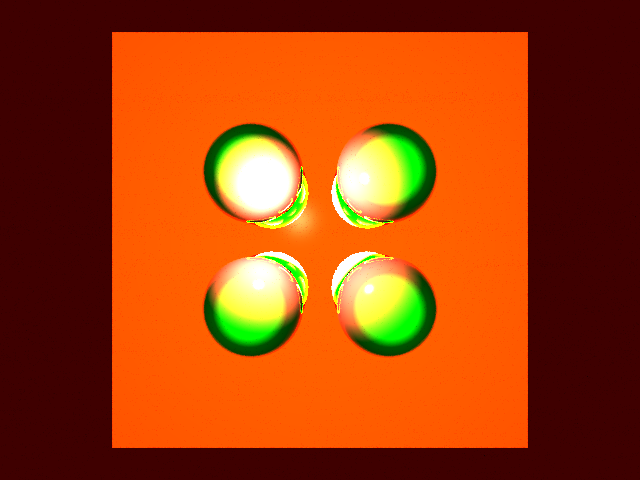
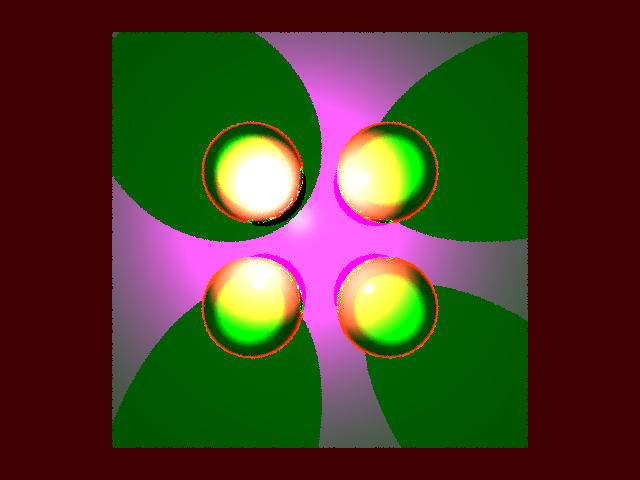
Flip triangle

diff --git a/src/Raytracer.cpp b/src/Raytracer.cpp
@@ -8,7 +8,7 @@
 #include <iostream>
 #include <algorithm>
 
-#define SAMPLE_COUNT 9
+#define SAMPLE_COUNT 1
 
 // Fall-off constants 
 #define KC 2
@@ -17,7 +17,7 @@
 
 #define MAX_T 5000
 #define RAY_EPS 0.0001		// Prevents acne
-#define PLANE_EQUALS_EPS 0.00001		// For parallel rays
+#define PLANE_EQUALS_EPS 0.0000001		// For parallel rays
 
 // Return d for convenient checks
 Vec3f RayPlaneIntersection(Vec3f start, Vec3f dir, Plane plane, float &d) {
@@ -136,6 +136,7 @@ Color Shade(Vec3f v, Vec3f n, Vec3f p, Material material, Scene *scene, bool noR
 		lightDir.Normalize();
 		Vec3f toLight = lightDir;
 		toLight.Negate();
+
 		if(!HitCheckScene(p, toLight, MAX_T, scene)) {		// Cast another ray for shadowing
 			float diffuse = std::clamp(n.Dot(toLight), 0.f, 1.f);
 		
@@ -151,6 +152,7 @@ Color Shade(Vec3f v, Vec3f n, Vec3f p, Material material, Scene *scene, bool noR
 		float dist = lightDir.Normalize();
 		Vec3f toLight = lightDir;
 		toLight.Negate();
+		
 		if(!HitCheckScene(p, toLight, dist, scene)) {		// Cast another ray for shadowing
 			float diffuse = std::clamp(n.Dot(toLight), 0.f, 1.f);
 			
@@ -188,10 +190,11 @@ Color Shade(Vec3f v, Vec3f n, Vec3f p, Material material, Scene *scene, bool noR
 				Vec3f refractedParallel = sqrtf(fabs(1.0 - refractedPerp.Dot(refractedPerp))) * n;
 				refractedParallel.Negate();
 				rayRefracted = refractedPerp + refractedParallel;
-			}
-			Color refraction = (1 - fresnelFactor) * RayTraceScene(p, rayRefracted, scene, hitFlag^1 && !noRefract, depth + 1);
+				Color refraction = (1 - fresnelFactor) * RayTraceScene(p, rayRefracted, scene, hitFlag^1 && !noRefract, depth + 1);
 
-			shade = shade + (material.transmissive * refraction);
+				shade = shade + (material.transmissive * refraction);
+			}
+
 		}
 
 	}
@@ -210,26 +213,21 @@ Color RayTraceScene(Vec3f start, Vec3f dir, Scene *scene, bool hitFlag, int dept
 	Material material;	// Material, also for shading
 	float tHit;
 
-	if(scene->accelerate) {
+	if(scene->accelerate && (triangleList.size() != 0)) {
 		Triangle hitTriangle;
 		if(scene->bvh->RayBvh(start, dir, 0, tMax, tHit, hitTriangle)) {
-			if(HitCheckTriangle(start, dir, hitTriangle, tMax, tHit)) {		// Kind of a debug to verify the triangle hit
-				if(!(tHit < RAY_EPS)) {
-					v = tHit * dir;				// Vector from eye to hit point
-					p = start + v;				// Hit point
-					n = hitTriangle.plane.normal;	// Triangle normal
-					if((n.Dot(start) - hitTriangle.plane.dist) < 0) {			// Flip if facing away from ray
-						n.Negate();
-					}
-					material = hitTriangle.material;
-
-					tMax = tHit;
-					hit = true;
-					noRefract = true;
+			if(!(tHit < RAY_EPS)) {
+				v = tHit * dir;					// Vector from eye to hit point
+				p = start + v;					// Hit point
+				n = hitTriangle.plane.normal;	// Triangle normal
+				if((n.Dot(start) - hitTriangle.plane.dist) < 0) {			// Flip if facing away from ray
+					n.Negate();
 				}
-			}
-			else {
-				std::cout << "Debug warning: Spurious Bvh hit. Not supposed to happen." << std::endl;
+				material = hitTriangle.material;
+
+				tMax = tHit;
+				hit = true;
+				noRefract = true;
 			}
 		}
 	}
@@ -240,7 +238,7 @@ Color RayTraceScene(Vec3f start, Vec3f dir, Scene *scene, bool hitFlag, int dept
 					v = tHit * dir;				// Vector from eye to hit point
 					p = start + v;				// Hit point
 					n = triangle.plane.normal;	// Triangle normal
-					if((n.Dot(start) - triangle.plane.dist) < 0) {			// Flip if facing away from ray
+					if((n.Dot(start) - triangle.plane.dist) > 0) {			// Flip if facing away from ray
 						n.Negate();
 					}
 					material = triangle.material;
@@ -282,15 +280,14 @@ Color RayTraceScene(Vec3f start, Vec3f dir, Scene *scene, bool hitFlag, int dept
 
 // Returns time taken for the process
 // Accelerated with OpenMP
-double RayTracePixel(int i, int j, Camera camera, float imgW, float imgH, float halfW, float halfH, float d, Scene *raytracerScene, Image *outputImage) {
+double RayTracePixel(int i, int j, Camera camera, int imgW, int imgH, double halfW, double halfH, float d, Scene *raytracerScene, Image *outputImage) {
 	Color color = Color(0, 0, 0);
 	int samples;
 	double start = omp_get_wtime();
-	omp_set_num_threads(3);
-	#pragma omp parallel for
+	//#pragma omp parallel for schedule(static, 1) num_threads(SAMPLE_COUNT)
 	for(samples = 0; samples < SAMPLE_COUNT; samples++) {		// Do a few samples to beat aliasing
-		float u = (halfW - imgW * ((i + (rand()/(float) RAND_MAX)) / imgW));
-		float v = (halfH - imgH * ((j + (rand()/(float) RAND_MAX)) / imgH));
+		float u = (halfW - imgW * ((i + (rand()/(double) RAND_MAX)) / imgW));
+		float v = (halfH - imgH * ((j + (rand()/(double) RAND_MAX)) / imgH));
 		Vec3f p = camera.eye - d * camera.fwd + u * camera.right + v * camera.up;
 		Vec3f rayDir = (p - camera.eye);
 		rayDir.Normalize();
@@ -304,6 +301,7 @@ double RayTracePixel(int i, int j, Camera camera, float imgW, float imgH, float 
 	(*outputImage).SetPixel(i, j, color);
 
 	double time = end - start;
+	//std::cout << time << std::endl;
 	return time;
 }
 
@@ -319,18 +317,21 @@ int main(int argc, char** argv) {
 
 	std::cout << "--- RAYTRACING SCENE ---" << std::endl;
 
-	std::string optimize = argv[2];
-	if(optimize == "-accelerate") {
-		std::cout << "Using triangle BVH" << std::endl;
-		raytracerScene->accelerate = true;
+	if(argv[2]) {
+		std::string optimize = argv[2];
+		if(optimize == "-accelerate") {
+			std::cout << "Using triangle BVH" << std::endl;
+			raytracerScene->accelerate = true;
+		}
 	}
+
 
 	Camera camera = raytracerScene->camera;
 
-	float imgW = raytracerScene->imageWidth;
-	float imgH = raytracerScene->imageHeight;
-	float halfW = imgW/2;
-	float halfH = imgH/2;
+	int imgW = raytracerScene->imageWidth;
+	int imgH = raytracerScene->imageHeight;
+	double halfW = imgW/2;
+	double halfH = imgH/2;
 	float d = halfH / tanf(camera.halfAngleFov * (M_PI / 180.0f));
 
 	double start = omp_get_wtime();
@@ -340,11 +341,15 @@ int main(int argc, char** argv) {
 		for(int i = 0; i < raytracerScene->imageWidth; i++) {
 			totalTime += RayTracePixel(i, j, camera, imgH, imgW, halfW, halfH, d, raytracerScene, &outputImage);
 		}
+		if(j%32 == 0) {
+			double elapsed =  round((j / (double) imgH) * 100);
+			std::cout << elapsed << "%" << std::endl;
+		}
 	}
 	double end = omp_get_wtime();
 	
 	std::cout << "Done!" << std::endl;
-	std::cout << "Raytracing took: " << totalTime << " seconds" << std::endl;
+	//std::cout << "Raytracing took: " << totalTime << " seconds" << std::endl;
 	std::cout << "Raytracing took: " << end - start << " seconds" << std::endl;
 
 	outputImage.Write(raytracerScene->outputImage.c_str());

diff --git a/src/scene/Bvh.cpp b/src/scene/Bvh.cpp
@@ -6,21 +6,39 @@
 #define GIANT_NUM 1e20f
 
 SceneBvh::SceneBvh(std::vector<Triangle> inputTriangles) {
-	triangles = inputTriangles;
-	bvhNodes = new BvhNode[triangles.size() * 2]; // Allocate an array of bvhNodes to store the tree
+	numTris = inputTriangles.size();
+	if(numTris == 0) {
+		return;
+	}
+	triangles = new Triangle[numTris];
+	int i = 0;
+
+	for(Triangle triangle : inputTriangles) {
+		triangles[i] = triangle;
+		i++;
+	}
+
+	bvhNodes = new BvhNode[numTris * 2]; // Allocate an array of bvhNodes to store the tree
 }
 
 SceneBvh::~SceneBvh() {
 	delete[] bvhNodes;
+	delete[] triangles;
 }
 
-void SceneBvh::BuildBvh() {
+bool SceneBvh::BuildBvh() {
+
+	if(numTris == 0) {
+		return false;
+	}
 	BvhNode &root = bvhNodes[rootIdx];
 	root.left = 0;		// Error. why?
-	root.firstTriangle = 0, root.triangleCount = triangles.size();
+	root.firstTriangle = 0, root.triangleCount = numTris;
 
 	CalcBounds(rootIdx);
 	Subdivide(rootIdx);
+
+	return true;
 }
 
 void BoundBoxf::AddPoint(Vec3f p) {
@@ -60,7 +78,7 @@ void SceneBvh::CalcBounds(uint nodeIdx) {
 void SceneBvh::Subdivide(uint nodeIdx) {
 	BvhNode &node = bvhNodes[nodeIdx];
 
-	if(node.triangleCount <= 4) {		// Stop when there are four faces
+	if(node.triangleCount <= 5) {		// Stop when there are at least two faces (you often can't split further)
 		return;
 	}
 

diff --git a/src/scene/Bvh.h b/src/scene/Bvh.h
@@ -27,16 +27,17 @@ public:
 
 	SceneBvh(std::vector<Triangle> inputTriangles);
 
-	void BuildBvh();
+	bool BuildBvh();
 	void CalcBounds(uint nodeIdx);
 	void Subdivide(uint nodeIdx);
 
 	bool RayBvh(Vec3f start, Vec3f dir, const uint nodeIdx, float tMax, float &tHit, Triangle &triHit);
 
-	std::vector<Triangle> triangles;
+	int		numTris;
+	Triangle	*triangles = NULL;
 	uint rootIdx = 0;
 	uint nodesUsed = 1;
-	BvhNode *bvhNodes;
+	BvhNode *bvhNodes = NULL;
 };
 
 #endif

diff --git a/src/scene/Scene.h b/src/scene/Scene.h
@@ -47,7 +47,7 @@ public:
 
 	// Lets go
 	SceneBvh *bvh;
-	bool accelerate;
+	bool accelerate = false;
 };
 
 #endif
